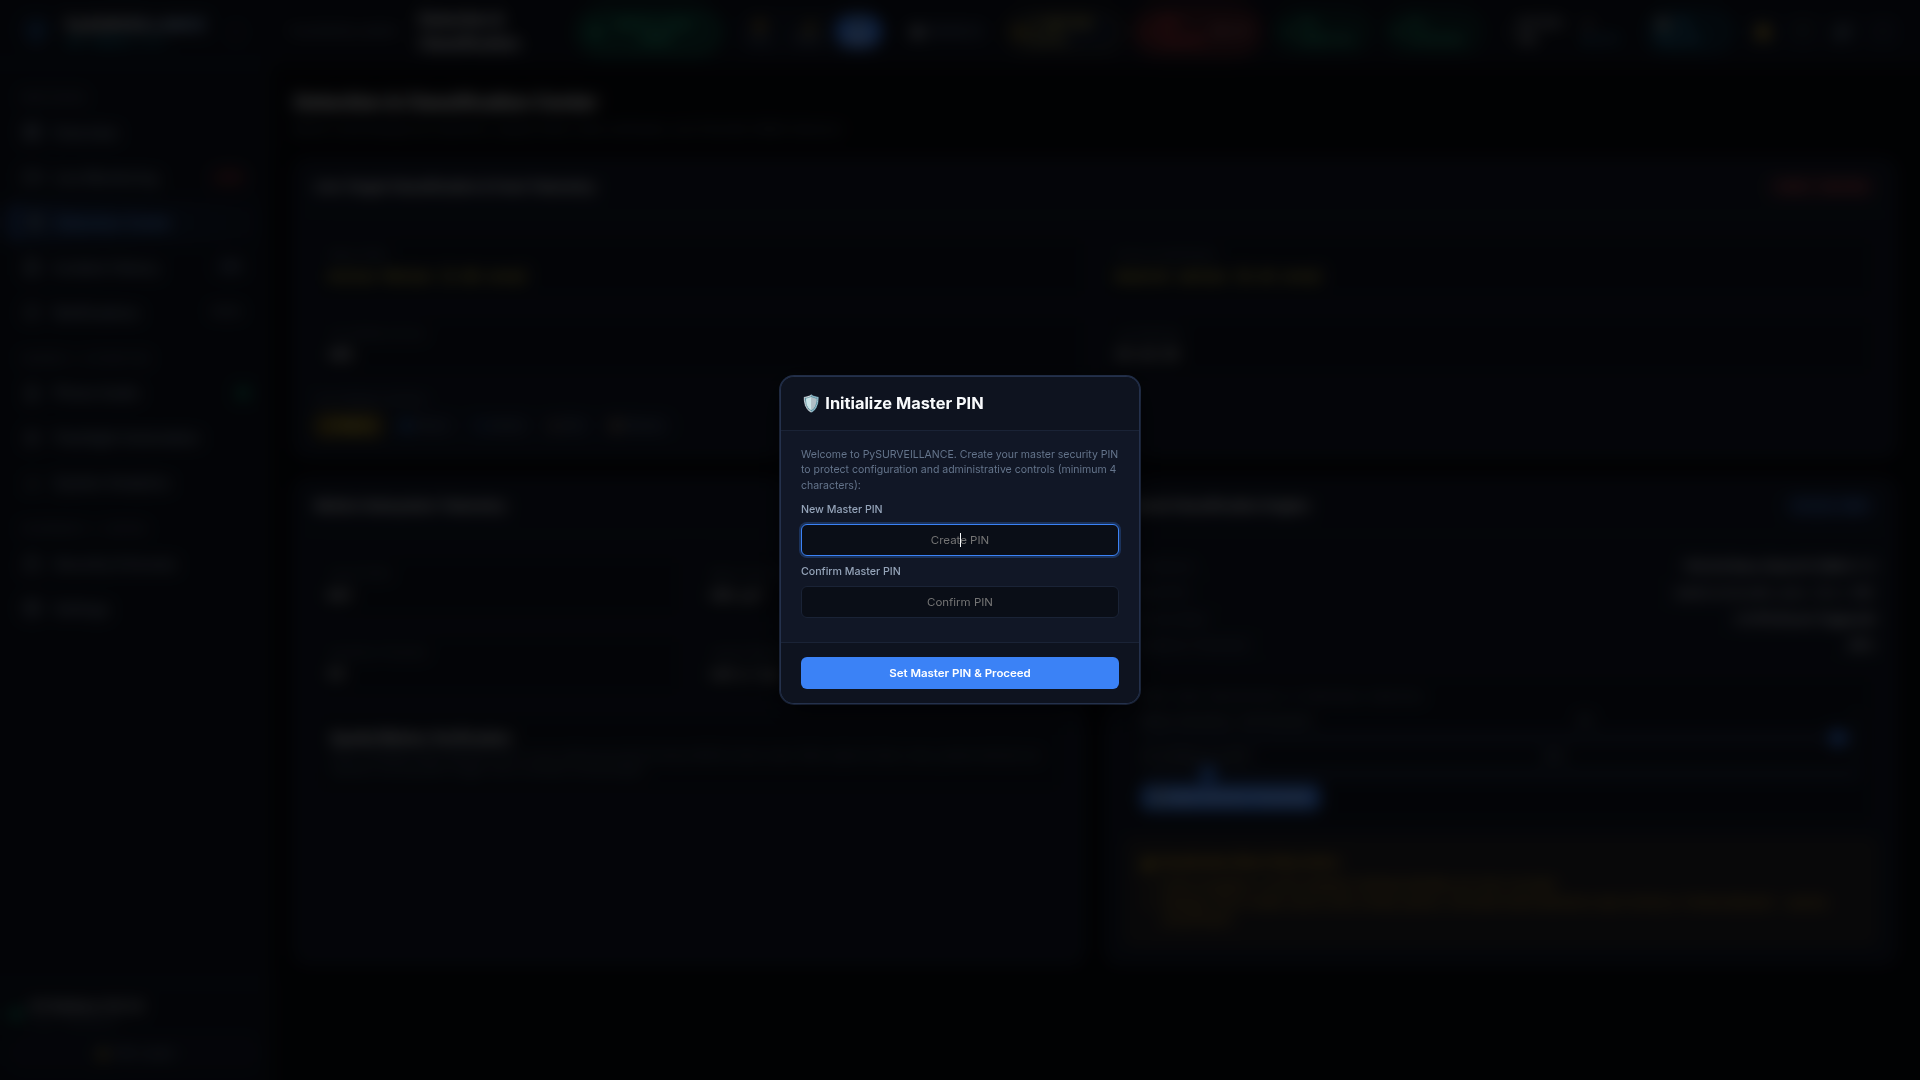
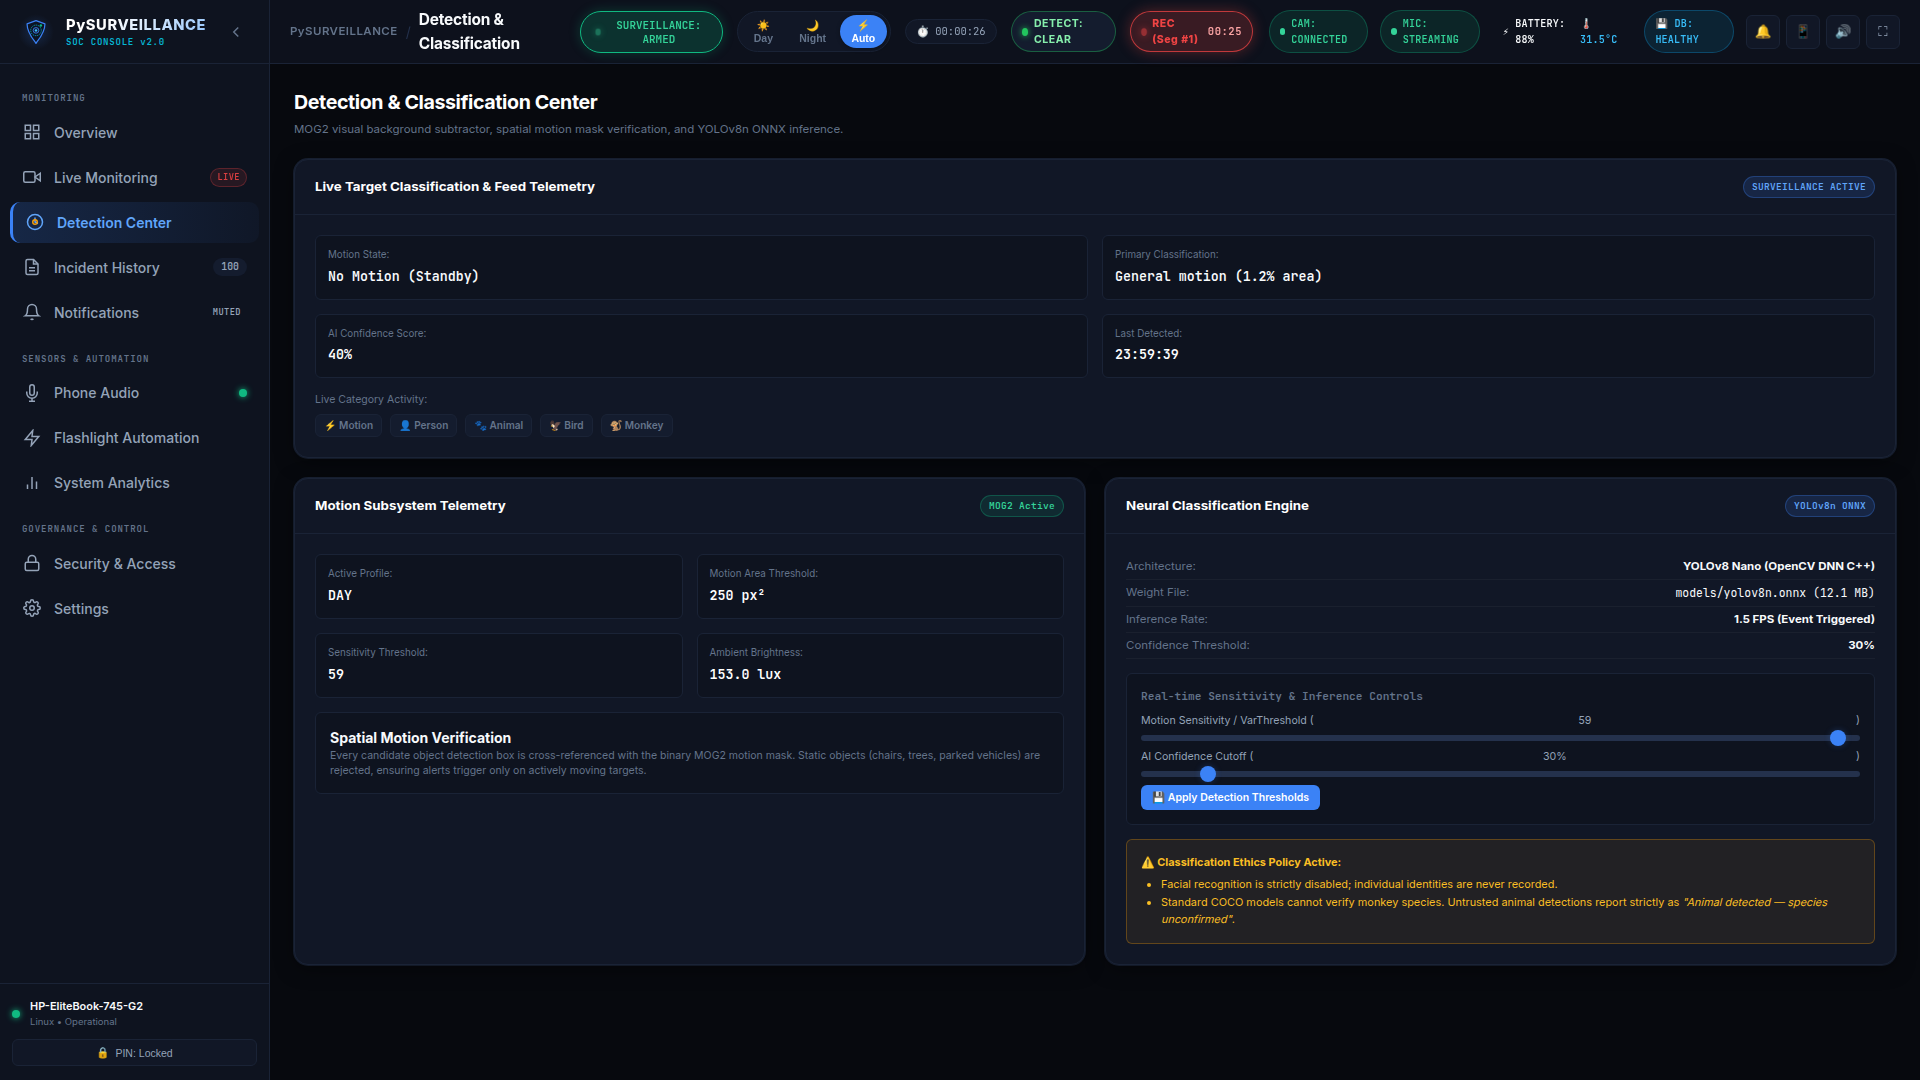
fix(presentation): remove master pin modal from slides 3-7 and dismiss forensic preview modal on slides 8-13

diff --git a/presentation/index.html b/presentation/index.html
@@ -347,7 +347,7 @@
       <span class="brand-badge">SOC SLIDE DECK</span>
     </div>
     <div class="controls">
-      <span class="slide-counter" id="slideCounter">Slide 1 of 13</span>
+      <span class="slide-counter" id="slideCounter">Slide 1 of 14</span>
       <button class="nav-btn" id="prevBtn" title="Previous Slide (← / Up)">← Prev</button>
       <button class="nav-btn" id="nextBtn" title="Next Slide (→ / Down / Space)">Next →</button>
       <button class="nav-btn" id="fullBtn" title="Toggle Fullscreen (F)">⛶ Fullscreen</button>
@@ -691,10 +691,38 @@
       </div>
     </section>
 
-    <!-- Slide 13: Security & Access Control -->
+    <!-- Slide 13: Camera & Audio Stream Configuration -->
     <section class="slide" data-slide="13">
       <div class="slide-header">
-        <span class="slide-tag">12 // ZERO-TRUST SECURITY</span>
+        <span class="slide-tag">12 // STREAM CONFIGURATION</span>
+        <h2 class="slide-title">Camera & Audio Stream Configuration</h2>
+        <p class="slide-subtitle">Decoupled protocol routing for RTSP video, HTTP/MJPEG, and linear PCM network audio.</p>
+      </div>
+      <div class="slide-content">
+        <div class="slide-image-col">
+          <img src="assets/12_Camera_Audio_Configuration.png" alt="Camera & Audio Configuration">
+        </div>
+        <div class="slide-text-col">
+          <div class="feature-card">
+            <h4>📹 Video Protocol Ingestion</h4>
+            <p>Connects to RTSP H.264/H.265 streams via OpenCV VideoCapture or HTTP multipart MJPEG feeds without vendor locks.</p>
+          </div>
+          <div class="feature-card">
+            <h4>🎙 Independent Audio Routing</h4>
+            <p>Uncompressed HTTP linear PCM/WAV (16kHz/44.1kHz) audio input separated from video pipeline.</p>
+          </div>
+          <div class="feature-card">
+            <h4>⏱ Recording Duration Caps</h4>
+            <p>Configurable 60-second video segment rollover and 15-second continuous-motion inactivity reset.</p>
+          </div>
+        </div>
+      </div>
+    </section>
+
+    <!-- Slide 14: Security & Access Control -->
+    <section class="slide" data-slide="14">
+      <div class="slide-header">
+        <span class="slide-tag">13 // ZERO-TRUST SECURITY</span>
         <h2 class="slide-title">Cryptographic Security & LAN Firewall</h2>
         <p class="slide-subtitle">Zero default backdoors, PBKDF2 salted authentication, and private network isolation.</p>
       </div>

diff --git a/capture_presentation_screens.py b/capture_presentation_screens.py
@@ -243,7 +243,27 @@ class CDPSession:
             }})()
         """)
 
+    async def force_close_all_modals(self):
+        """Force all open modals (PIN, first run, event detail) to close completely."""
+        await self.eval("""
+            (() => {
+                document.querySelectorAll('.soc-modal').forEach(m => {
+                    m.classList.remove('open');
+                    m.style.display = 'none';
+                });
+            })()
+        """)
+        await asyncio.sleep(0.2)
+
     async def screenshot(self, filename: str):
+        # Guarantee no rogue modal is open for views other than the forensic modal
+        if "Forensic" not in filename and "07_" not in filename:
+            open_count = await self.eval("document.querySelectorAll('.soc-modal.open').length")
+            if open_count and int(open_count) > 0:
+                print(f"[Sanitizer] Open modal detected before capturing {filename}! Closing all modals...")
+                await self.force_close_all_modals()
+                await asyncio.sleep(0.3)
+
         res = await self.send("Page.captureScreenshot", {"format": "png"})
         import base64
         raw = base64.b64decode(res["data"])
@@ -319,27 +339,27 @@ async def capture_all_screens(token: str):
         """)
         await asyncio.sleep(0.5)
 
-        # Reload or trigger state update
+        # Reload page with authenticated session
         await cdp.send("Page.navigate", {"url": f"{BASE_URL}/#overview"})
-        await asyncio.sleep(2.0)
+        await asyncio.sleep(2.5)
 
-        # Close any open modal just in case
-        await cdp.eval("""
-            (() => {
-                const setupModal = document.getElementById('pinSetupModal');
-                if (setupModal) setupModal.style.display = 'none';
-                const pinModal = document.getElementById('pinModal');
-                if (pinModal) pinModal.classList.remove('open');
-            })()
-        """)
+        # Force dismiss any and all modals (firstRunPinModal, pinModal, etc.)
+        await cdp.force_close_all_modals()
         await asyncio.sleep(0.5)
 
+        # ---------------------------------------------------------------------
         # 1. Main SOC Overview Dashboard
+        # ---------------------------------------------------------------------
+        await cdp.force_close_all_modals()
         await cdp.click('[data-view="overview"]')
         await asyncio.sleep(2.5)
+        await cdp.force_close_all_modals()
         await cdp.screenshot("01_Main_Monitoring_Dashboard.png")
 
+        # ---------------------------------------------------------------------
         # 2. Live Cinema Monitoring Workspace
+        # ---------------------------------------------------------------------
+        await cdp.force_close_all_modals()
         await cdp.click('[data-view="monitoring"]')
         await asyncio.sleep(2.5)
         await cdp.eval("""
@@ -355,19 +375,31 @@ async def capture_all_screens(token: str):
             })()
         """)
         await asyncio.sleep(0.8)
+        await cdp.force_close_all_modals()
         await cdp.screenshot("02_Live_Cinema_Monitoring.png")
 
+        # ---------------------------------------------------------------------
         # 3. Detection & Classification Center
+        # ---------------------------------------------------------------------
+        await cdp.force_close_all_modals()
         await cdp.click('[data-view="detection"]')
         await asyncio.sleep(2.0)
+        await cdp.force_close_all_modals()
         await cdp.screenshot("03_Detection_Classification_Center.png")
 
+        # ---------------------------------------------------------------------
         # 4. Recording Status & HUD Indicators
+        # ---------------------------------------------------------------------
+        await cdp.force_close_all_modals()
         await cdp.click('[data-view="monitoring"]')
         await asyncio.sleep(1.0)
+        await cdp.force_close_all_modals()
         await cdp.screenshot("04_Recording_Status_HUD.png")
 
+        # ---------------------------------------------------------------------
         # 5. Incident History Timeline
+        # ---------------------------------------------------------------------
+        await cdp.force_close_all_modals()
         await cdp.click('[data-view="incidents"]')
         await asyncio.sleep(2.0)
         await cdp.eval("""
@@ -377,9 +409,13 @@ async def capture_all_screens(token: str):
             })()
         """)
         await asyncio.sleep(1.0)
+        await cdp.force_close_all_modals()
         await cdp.screenshot("05_Event_Timeline_Records.png")
 
+        # ---------------------------------------------------------------------
         # 6. Incident Gallery Grid
+        # ---------------------------------------------------------------------
+        await cdp.force_close_all_modals()
         await cdp.eval("""
             (() => {
                 const btn = document.getElementById('viewTabGallery');
@@ -387,9 +423,13 @@ async def capture_all_screens(token: str):
             })()
         """)
         await asyncio.sleep(1.2)
+        await cdp.force_close_all_modals()
         await cdp.screenshot("06_Incident_Gallery_Grid.png")
 
-        # 7. Forensic Multi-Frame Comparison Modal
+        # ---------------------------------------------------------------------
+        # 7. Forensic Multi-Frame Comparison Modal (Event Detail Inspection)
+        # ---------------------------------------------------------------------
+        await cdp.force_close_all_modals()
         await cdp.eval("""
             (async () => {
                 const cards = document.querySelectorAll('.incident-card');
@@ -405,48 +445,92 @@ async def capture_all_screens(token: str):
                 }
             })()
         """)
-        await asyncio.sleep(2.2)
-        await cdp.screenshot("07_Extracted_Forensic_Images.png")
-
-        # Close modal
+        await asyncio.sleep(2.5)
+        # Ensure modal is explicitly styled visible for screenshot 07
         await cdp.eval("""
             (() => {
-                const modal = document.getElementById('incidentModal');
-                if (modal) modal.style.display = 'none';
-                const closeBtn = document.querySelector('#incidentModal .btn-close-modal');
-                if (closeBtn) closeBtn.click();
+                const modal = document.getElementById('eventDetailModal');
+                if (modal) {
+                    modal.style.display = 'flex';
+                    modal.classList.add('open');
+                }
             })()
         """)
         await asyncio.sleep(0.5)
+        await cdp.screenshot("07_Extracted_Forensic_Images.png")
 
-        # 8. Acoustic Intelligence & Audio Monitoring
+        # CRITICAL: Dismiss and close the event detail modal completely!
+        print("[CDP] Closing eventDetailModal after forensic capture...")
+        await cdp.eval("""
+            (() => {
+                const modal = document.getElementById('eventDetailModal');
+                if (modal) {
+                    modal.classList.remove('open');
+                    modal.style.display = 'none';
+                }
+                const closeBtn = document.querySelector('#eventDetailModal .modal-close-btn');
+                if (closeBtn) closeBtn.click();
+                document.querySelectorAll('.soc-modal').forEach(m => {
+                    m.classList.remove('open');
+                    m.style.display = 'none';
+                });
+            })()
+        """)
+        await asyncio.sleep(1.0)
+        await cdp.force_close_all_modals()
+
+        # ---------------------------------------------------------------------
+        # 8. Acoustic Intelligence & Audio Monitoring (Modal MUST be absent!)
+        # ---------------------------------------------------------------------
+        await cdp.force_close_all_modals()
         await cdp.click('[data-view="audio"]')
         await asyncio.sleep(1.8)
+        await cdp.force_close_all_modals()
         await cdp.screenshot("08_Acoustic_Intelligence_Audio.png")
 
-        # 9. Hardware Automation & Smart Flashlight
+        # ---------------------------------------------------------------------
+        # 9. Hardware Automation & Smart Flashlight (Modal MUST be absent!)
+        # ---------------------------------------------------------------------
+        await cdp.force_close_all_modals()
         await cdp.click('[data-view="automation"]')
         await asyncio.sleep(1.8)
+        await cdp.force_close_all_modals()
         await cdp.screenshot("09_Hardware_Automation_Lighting.png")
 
-        # 10. Native Device & Browser Notification Center
+        # ---------------------------------------------------------------------
+        # 10. Native Device & Browser Notification Center (Modal MUST be absent!)
+        # ---------------------------------------------------------------------
+        await cdp.force_close_all_modals()
         await cdp.click('[data-view="notifications"]')
         await asyncio.sleep(1.8)
+        await cdp.force_close_all_modals()
         await cdp.screenshot("10_Notification_Interface.png")
 
-        # 11. System Diagnostics & Analytics Telemetry
+        # ---------------------------------------------------------------------
+        # 11. System Diagnostics & Analytics Telemetry (Modal MUST be absent!)
+        # ---------------------------------------------------------------------
+        await cdp.force_close_all_modals()
         await cdp.click('[data-view="analytics"]')
         await asyncio.sleep(1.8)
+        await cdp.force_close_all_modals()
         await cdp.screenshot("11_System_Diagnostics_Telemetry.png")
 
-        # 12. Camera & System Settings Console
+        # ---------------------------------------------------------------------
+        # 12. Camera & System Settings Console (Modal MUST be absent!)
+        # ---------------------------------------------------------------------
+        await cdp.force_close_all_modals()
         await cdp.click('[data-view="settings"]')
         await asyncio.sleep(1.8)
+        await cdp.force_close_all_modals()
         await cdp.screenshot("12_Camera_Audio_Configuration.png")
 
-        # 13. Security Firewall & Access Control
+        # ---------------------------------------------------------------------
+        # 13. Security Firewall & Access Control (Modal MUST be absent!)
+        # ---------------------------------------------------------------------
+        await cdp.force_close_all_modals()
         await cdp.click('[data-view="security"]')
         await asyncio.sleep(1.8)
+        await cdp.force_close_all_modals()
         await cdp.screenshot("13_Security_Access_Control.png")
 
     try:
@@ -518,7 +602,6 @@ def main():
             token = data.get("token", "")
             print(f"  [✓] Master PIN setup initialized. Token: {token[:12]}...")
     except Exception:
-        # Already setup, verify
         try:
             verify_req = urllib.request.Request(
                 "http://127.0.0.1:8000/api/auth/verify",
